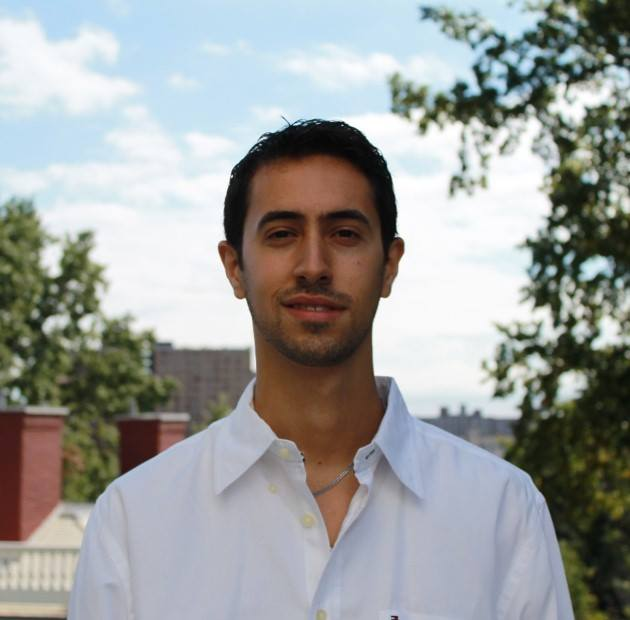
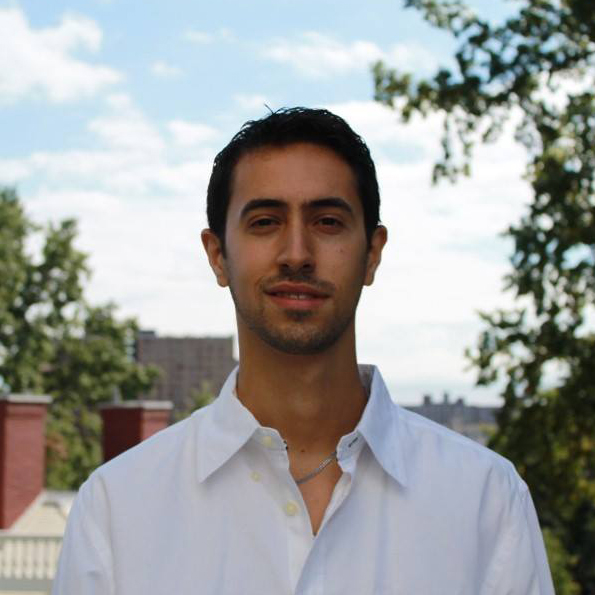
Clean up css, adjust image

diff --git a/index.html b/index.html
@@ -12,11 +12,13 @@
 <body>
     <!-- // Intro -->
     <header>
-        <img class="profile-img column-narrow" src="images/straightup.jpg" alt="Arthur J. Autz">
-        <h1>Arthur J. Autz</h1>
-        <h2>Web Developer + Educator </h2>
-        <p>As a web developer I specialize in in creating modular and scalable front-end &amp; back-end architecture. As an
-            educator, I focus on creating inclusive learning environments and curriculum development.</p>
+        <div class="content-wrap">
+            <img class="profile-img" src="images/straightup.jpg" alt="Arthur J. Autz">
+            <h1>Arthur J. Autz</h1>
+            <h2>Web Developer + Educator </h2>
+            <p>As a web developer I specialize in in creating modular and scalable front-end &amp; back-end architecture. As
+                an educator, I focus on creating inclusive learning environments and curriculum development.</p>
+        </div>
     </header>
 
     <main>
@@ -48,7 +50,8 @@
 
                 <div class="column-wide">
                     <p>Created and managed all adult focused curriculum, instructor training and tech related strategies and
-                        duties.</p>
+                        duties.
+                    </p>
 
                     <p>Key contributions:</p>
                     <ul>
@@ -70,12 +73,12 @@
         <section class="education">
             <div class="content-wrap">
                 <h2>Education</h2>
-        
+
                 <!-- School details: copy this block to add more schools. -->
                 <h3>Columbia University - New York, NY</h3>
                 <h4>Biomedical Engineering, 2013</h4>
                 <p>To be filled in</p>
-        
+
                 <h3>Pennsylvania State University - University Park, PA</h3>
                 <h4>Engineering Science &amp; Mechanics, 2010</h4>
                 <p>To be filled in</p>

diff --git a/css/styles.css b/css/styles.css
@@ -74,10 +74,10 @@ header {
 }
 
 .profile-img {
-  /*width: 300px;*/
+  width: 300px;
   border-radius: 50%;
-  /*float: left;*/
-  /*margin-right: 30px;*/
+  float: left;
+  margin-right: 30px;
 }
 
 /* Footer styles only */
